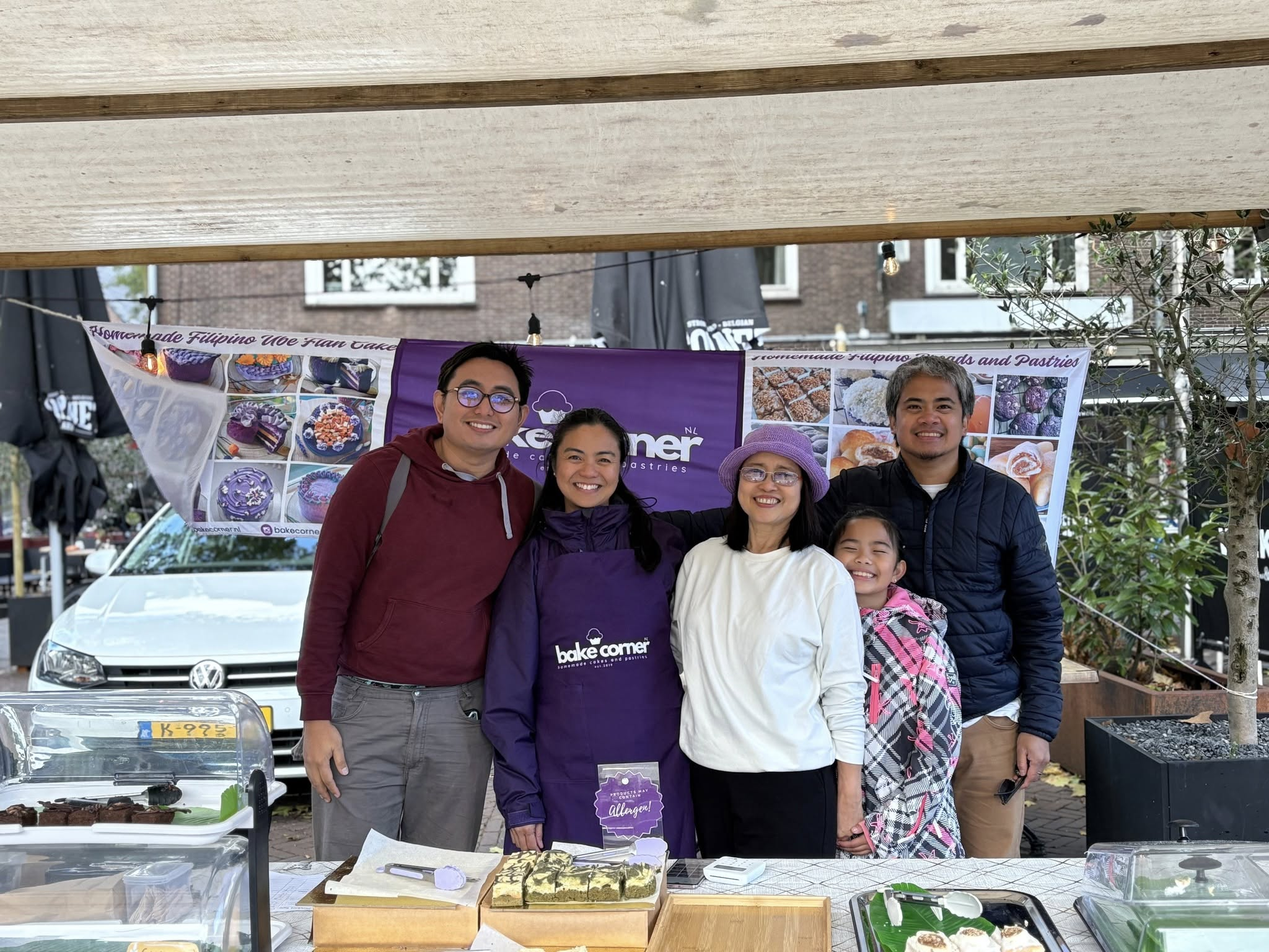
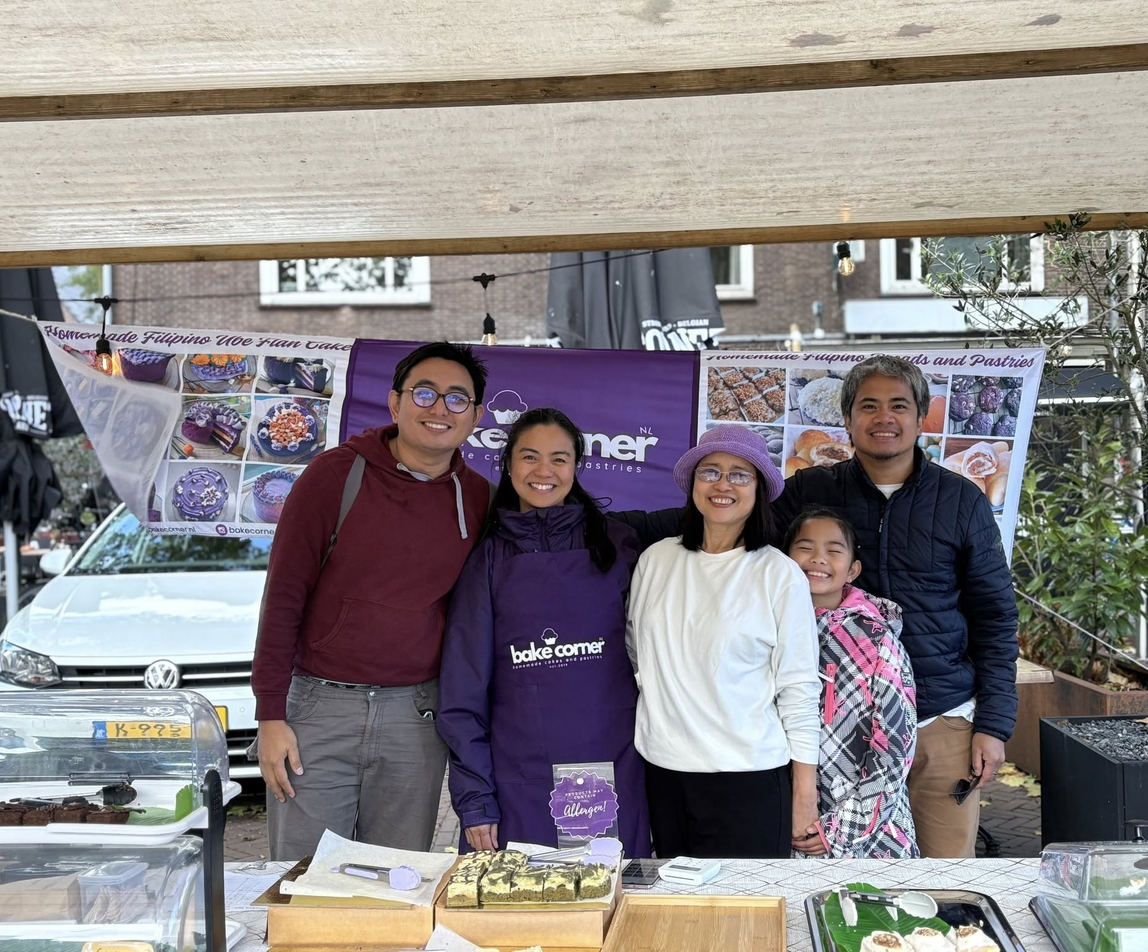
refactor: ourStory dynamic image, title, description, and WhatsAppIcon change UI

diff --git a/src/components/home/ourstory.jsx b/src/components/home/ourstory.jsx
@@ -1,137 +1,150 @@
 import { useEffect, useState } from "react"
-import { db } from "../../firebase" // adjust path if needed
-import { doc, onSnapshot } from "firebase/firestore"
+import { db } from "../../firebase"
+import { collection, getDocs } from "firebase/firestore"
 
 function OurStory() {
-  const [current, setCurrent] = useState(0)
-
-  const [content, setContent] = useState({
-    heading: "Our Story",
-    section1: {
-      title: "Lorem Ipsum is simply dummy text of",
-      body:
-        "Lorem Ipsum is simply dummy text of the printing and typesetting industry...",
-      ctaText: "Contact Us",
-      bgImage: "./images/redpaint.png",
-      frameImage: "./images/single_frame_img.png",
+    const testimonials = [
+    {
+      text: "The experience was absolutely wonderful. Everything felt personal and thoughtful.",
+      author: "– Anna Williams",
     },
-    section2: {
-      title: "Lorem Ipsum is simply dummy text of",
-      body:
-        "Lorem Ipsum is simply dummy text of the printing and typesetting industry...",
-      ctaText: "Contact Us",
-      bgImage: "./images/bg_purple.png",
-      frameImage: "./images/group_frame_img.png",
+    {
+      text: "High quality service and incredible attention to detail. Highly recommended!",
+      author: "– John Carter",
     },
-    testimonials: [
-      {
-        text: "The experience was absolutely wonderful. Everything felt personal and thoughtful.",
-        author: "– Anna Williams",
-      },
-      {
-        text: "High quality service and incredible attention to detail. Highly recommended!",
-        author: "– John Carter",
-      },
-      {
-        text: "A beautiful journey from start to finish. I would definitely come back again.",
-        author: "– Maria Lopez",
-      },
-    ],
-  })
+    {
+      text: "A beautiful journey from start to finish. I would definitely come back again.",
+      author: "– Maria Lopez",
+    },
+  ];
 
-  // 🔥 Realtime load from Firestore
+  const [current, setCurrent] = useState(0);
+  const [storySection1, setStorySection1] = useState(null);
+  const [storySection2, setStorySection2] = useState(null);
+  const [loading, setLoading] = useState(true);
+
+  // Default fallback data
+  const defaultSection1 = {
+    title: "Lorem Ipsum is simply dummy text of",
+    description: "Lorem Ipsum is simply dummy text of the printing and typesetting industry. Lorem Ipsum has been the industry's standard dummy text ever since the 1500s, when an unknown printer took a galley of type and scrambled it to make a type specimen book. It has survived not only five centuries, but also the leap into electronic typesetting, remaining essentially unchanged.",
+    image: "./images/default_image.jpg"
+  };
+
+  const defaultSection2 = {
+    title: "Lorem Ipsum is simply dummy text of",
+    description: "Lorem Ipsum is simply dummy text of the printing and typesetting industry. Lorem Ipsum has been the industry's standard dummy text ever since the 1500s, when an unknown printer took a galley of type and scrambled it to make a type specimen book. It has survived not only five centuries, but also the leap into electronic typesetting, remaining essentially unchanged.",
+    image: "./images/default_image.jpg"
+  };
+
+  // Fetch story data from Firebase
   useEffect(() => {
-    const ref = doc(db, "pages", "ourStory")
-    const unsub = onSnapshot(ref, (snap) => {
-      if (snap.exists()) {
-        const data = snap.data()
-        setContent((prev) => ({
-          ...prev,
-          ...data,
-          section1: { ...prev.section1, ...(data.section1 || {}) },
-          section2: { ...prev.section2, ...(data.section2 || {}) },
-          testimonials: Array.isArray(data.testimonials)
-            ? data.testimonials
-            : prev.testimonials,
-        }))
+    const fetchStoryData = async () => {
+      try {
+        const querySnapshot = await getDocs(collection(db, "ourStory"));
+        const data = {};
+        querySnapshot.forEach((doc) => {
+          data[doc.id] = doc.data();
+        });
+        setStorySection1(data.section1 || defaultSection1);
+        setStorySection2(data.section2 || defaultSection2);
+      } catch (error) {
+        console.error("Error fetching story data:", error);
+        setStorySection1(defaultSection1);
+        setStorySection2(defaultSection2);
+      } finally {
+        setLoading(false);
       }
-    })
-    return () => unsub()
-  }, [])
+    };
+    fetchStoryData();
+  }, []);
 
-  // Auto slide (depends on testimonials length)
+  // Auto slide
   useEffect(() => {
-    if (!content.testimonials?.length) return
     const interval = setInterval(() => {
-      setCurrent((prev) => (prev + 1) % content.testimonials.length)
-    }, 5000)
-    return () => clearInterval(interval)
-  }, [content.testimonials?.length])
-
-  const t = content.testimonials || []
-
+      setCurrent((prev) => (prev + 1) % testimonials.length);
+    }, 5000);
+    return () => clearInterval(interval);
+  }, [testimonials.length]);
+  
   return (
     <section className="max-w-7xl mx-auto px-4 py-16">
       {/* Heading */}
       <h2 className="text-4xl font-bold text-center font-cooper text-[#5B1E5D] mb-16">
-        {content.heading}
+        Our Story
       </h2>
 
       {/* Section 1 */}
-      <section className="flex flex-col md:flex-row items-center mb-16">
-        <div className="md:w-1/2 mb-8 md:mb-0 md:pr-8">
-          <div>
-            <h1 className="text-2xl font-bold mb-4">{content.section1.title}</h1>
-            <div>
-              <p className="mb-4">{content.section1.body}</p>
-            </div>
-            <button className="bg-[#7B2220] text-white px-6 py-2 rounded-md mt-4">
-              {content.section1.ctaText || "Contact Us"}
-            </button>
-          </div>
-        </div>
+        {!loading && storySection1 && (
+          <section className="flex flex-col md:flex-row items-center mb-16">
+              <div className="md:w-1/2 mb-8 md:mb-0 md:pr-8">
+                  <div>
+                      {/* Title */}
+                      <h1 className="text-2xl font-bold mb-4">{storySection1.title}</h1>
+                      {/* Description */}
+                      <div>
+                          <p className="mb-4">{storySection1.description}</p>
+                      </div>
+                      <button className="bg-[#7B2220] text-white px-6 py-2 rounded-md mt-4">Contact Us</button>
+                  </div>
+              </div>
+              <div className="md:w-2/3 md:pl-8 relative">
+                  <img
+                      src="./images/redpaint.png"
+                      alt="red paint bg"
+                      className="w-full h-auto rounded-md"
+                  />
 
-        <div className="md:w-2/3 md:pl-8 relative">
-          <img
-            src={content.section1.bgImage}
-            alt="red paint bg"
-            className="w-full h-auto rounded-md"
-          />
-          <img
-            src={content.section1.frameImage}
-            alt="our story"
-            className="absolute inset-0 m-auto w-90 h-80 rounded-md shadow-lg z-10"
-          />
-        </div>
-      </section>
+                  {/* Image */}
+                  <img
+                      src={storySection1.image}
+                      alt="our story"
+                      className="absolute inset-0 m-auto w-70 h-60 md:w-94 md:h-72 z-10"
+                  />
+                  <img
+                      src="./images/frame2.png"
+                      alt="our story"
+                      className="absolute inset-0 m-auto w-[22rem] h-80 md:w-[27rem] md:h-96 z-20"
+                  />
+              </div>
+          </section>
+        )}
 
-      {/* Section 2 */}
-      <section className="flex flex-col-reverse md:flex-row items-center mb-16">
-        <div className="md:w-2/3 relative md:pr-8">
-          <img
-            src={content.section2.bgImage}
-            alt="purple bg"
-            className="w-full h-auto rounded-md"
-          />
-          <img
-            src={content.section2.frameImage}
-            alt="our story"
-            className="absolute inset-0 m-auto w-90 h-80 rounded-md shadow-lg z-10"
-          />
-        </div>
+        {/* Section 2 */}
+        {!loading && storySection2 && (
+          <section className="flex flex-col-reverse md:flex-row items-center mb-16">
+              <div className="md:w-2/3 relative md:pr-8">
+                  <img
+                      src="./images/bg_purple.png"
+                      alt="red paint bg"
+                      className="w-full h-auto rounded-md"
+                  />
 
-        <div className="md:w-1/2 mb-8 md:mb-0 md:pl-8 py-8">
-          <div>
-            <h1 className="text-2xl font-bold mb-4">{content.section2.title}</h1>
-            <div>
-              <p className="mb-4">{content.section2.body}</p>
-            </div>
-            <button className="bg-[#7B2220] text-white px-6 py-2 rounded-md mt-4">
-              {content.section2.ctaText || "Contact Us"}
-            </button>
-          </div>
-        </div>
-      </section>
+                  {/* Image */}
+                  <img
+                      src={storySection2.image}
+                      alt="our story"
+                      className="absolute inset-0 m-auto w-70 h-60 md:w-94 md:h-72 z-10"
+                  />
+                  <img
+                      src="./images/frame2.png"
+                      alt="our story"
+                      className="absolute inset-0 m-auto w-[22rem] h-80 md:w-[27rem] md:h-96 z-20"
+                  />
+              </div>
+              <div className="md:w-1/2 mb-8 md:mb-0 md:pl-8 py-8">
+                  <div>
+                      {/* Title */}
+                      <h1 className="text-2xl font-bold mb-4">{storySection2.title}</h1>
+                      {/* Description */}
+                      <div>
+                          <p className="mb-4">{storySection2.description}</p>
+                      </div>
+                      <button className="bg-[#7B2220] text-white px-6 py-2 rounded-md mt-4">Contact Us</button>
+                  </div>
+              </div>
+          </section>
+        )}
+      
 
       {/* Feedback / Testimonial Carousel */}
       <div
@@ -144,7 +157,7 @@ function OurStory() {
           className="flex transition-transform duration-500 ease-in-out"
           style={{ transform: `translateX(-${current * 100}%)` }}
         >
-          {t.map((item, index) => (
+          {testimonials.map((item, index) => (
             <div key={index} className="min-w-full px-12">
               <span className="text-6xl font-bold block mb-6">“</span>
               <p className="text-black max-w-3xl mx-auto mb-6 leading-relaxed">
@@ -157,12 +170,14 @@ function OurStory() {
 
         {/* Dots */}
         <div className="flex justify-center gap-2 mt-8">
-          {t.map((_, index) => (
+          {testimonials.map((_, index) => (
             <button
               key={index}
               onClick={() => setCurrent(index)}
               className={`w-2.5 h-2.5 rounded-full transition-all ${
-                current === index ? "bg-gray-700 scale-110" : "bg-gray-300"
+                current === index
+                  ? "bg-gray-700 scale-110"
+                  : "bg-gray-300"
               }`}
             />
           ))}

diff --git a/src/components/layouts/WhatsAppIcon.jsx b/src/components/layouts/WhatsAppIcon.jsx
@@ -1,27 +1,85 @@
-function WhatsAppIcon() {
-  const phone = "639105171791"; // ✅ international format, no +
+import { useState } from "react"
 
-  const url = `https://wa.me/${phone}`;
+function WhatsAppWidget() {
+  const [open, setOpen] = useState(false)
+
+  const phone = "639105171791" // international format, no +
+  const waUrl = `https://wa.me/${phone}?text=Hi%20I%20need%20help`
 
   return (
-    <a
-      href={url}
-      target="_blank"
-      rel="noopener noreferrer"
-      aria-label="Chat on WhatsApp"
-      className="fixed bottom-6 right-6 z-[10] bg-[#502455] p-4 rounded-full shadow-lg hover:scale-110 transition"
-    >
-      <svg
-        viewBox="0 0 32 32"
-        width="28"
-        height="28"
-        fill="white"
-        xmlns="http://www.w3.org/2000/svg"
+    <>
+      {/* TOOLTIP (only when widget is closed) */}
+      {!open && (
+        <div className="fixed bottom-8 right-24 z-[60] hidden sm:block">
+          <div className="bg-white text-gray-800 text-sm px-4 py-2 rounded-lg shadow-xl relative">
+            Need Help? <span className="font-semibold">Chat with us</span>
+
+            {/* arrow */}
+            <span className="absolute right-[-6px] top-1/2 -translate-y-1/2 w-3 h-3 bg-white rotate-45 shadow-lg"></span>
+          </div>
+        </div>
+      )}
+
+      {/* FLOATING WHATSAPP BUTTON */}
+      <button
+        onClick={() => setOpen((prev) => !prev)}
+        aria-label="Open WhatsApp chat"
+        className="fixed bottom-6 right-6 z-[60] bg-[#5B1E5D] w-16 h-16 rounded-full shadow-lg hover:scale-110 transition flex items-center justify-center"
       >
-        <path d="M16 2.9C8.8 2.9 2.9 8.7 2.9 15.9c0 2.8.8 5.4 2.4 7.6L2 30l6.7-2.2c2.1 1.2 4.6 1.9 7.3 1.9 7.2 0 13.1-5.8 13.1-13S23.2 2.9 16 2.9z" />
-      </svg>
-    </a>
-  );
+        <img
+          src="/images/whatsappicon.png"
+          alt="WhatsApp"
+          className="w-8 h-8"
+        />
+      </button>
+
+      {/* CHAT POPUP */}
+      {open && (
+        <div className="fixed bottom-24 right-6 w-80 bg-white rounded-lg shadow-2xl z-[60] overflow-hidden animate-fadeIn">
+          {/* HEADER */}
+          <div className="bg-[#5B1E5D] text-white px-4 py-3 relative">
+            <p className="font-semibold text-sm">Start a Conversation</p>
+            <p className="text-xs opacity-90">
+              Hi! Click below to chat on WhatsApp
+            </p>
+
+            <button
+              onClick={() => setOpen(false)}
+              className="absolute right-3 top-3 text-white text-lg"
+              aria-label="Close chat"
+            >
+              ✕
+            </button>
+          </div>
+
+          {/* BODY */}
+          <a
+            href={waUrl}
+            target="_blank"
+            rel="noopener noreferrer"
+            className="flex items-center gap-3 px-4 py-4 hover:bg-gray-100 transition"
+          >
+            <div className="w-10 h-10 rounded-full bg-[#5B1E5D] flex items-center justify-center">
+              <img
+                src="/images/whatsappicon.png"
+                alt="WhatsApp"
+                className="w-6 h-6"
+              />
+            </div>
+
+            <div className="flex-1">
+              <p className="font-semibold text-sm text-gray-800">
+                BCNL Customer Support
+              </p>
+              <p className="text-xs text-gray-500">
+                Click Now
+              </p>
+            </div>
+          </a>
+        </div>
+      )}
+    </>
+  )
 }
 
-export default WhatsAppIcon;
+export default WhatsAppWidget
